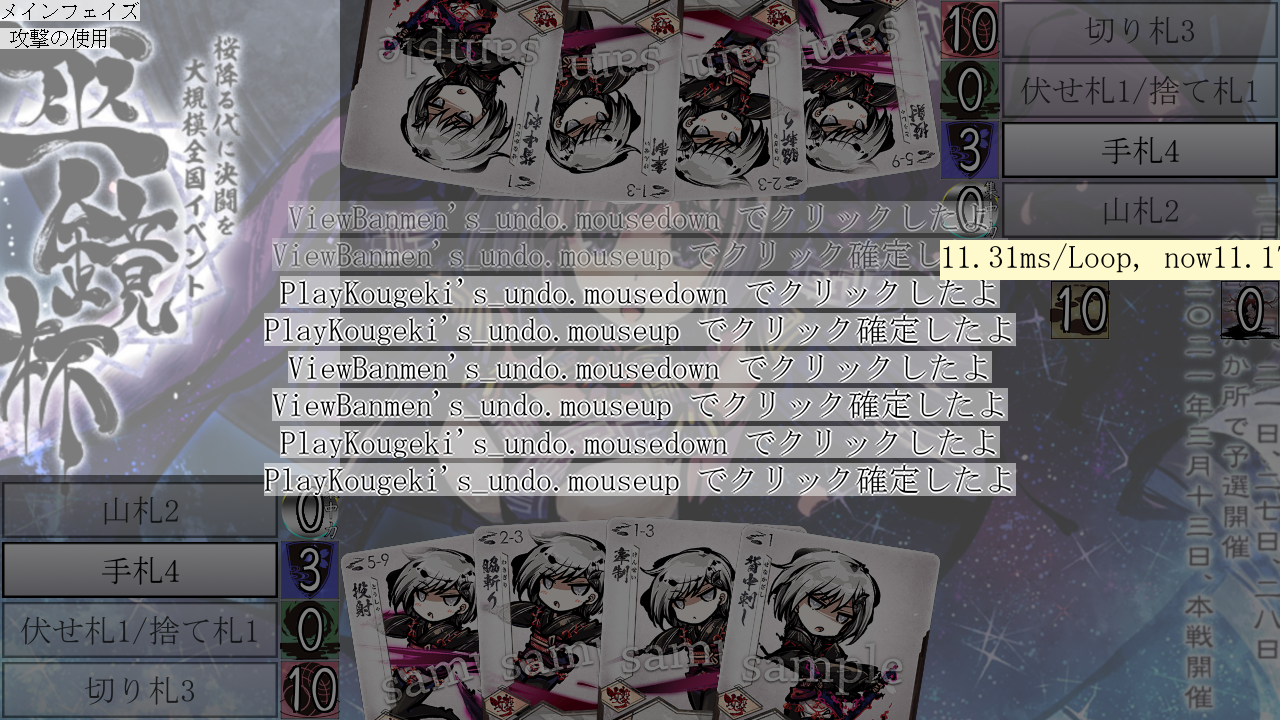
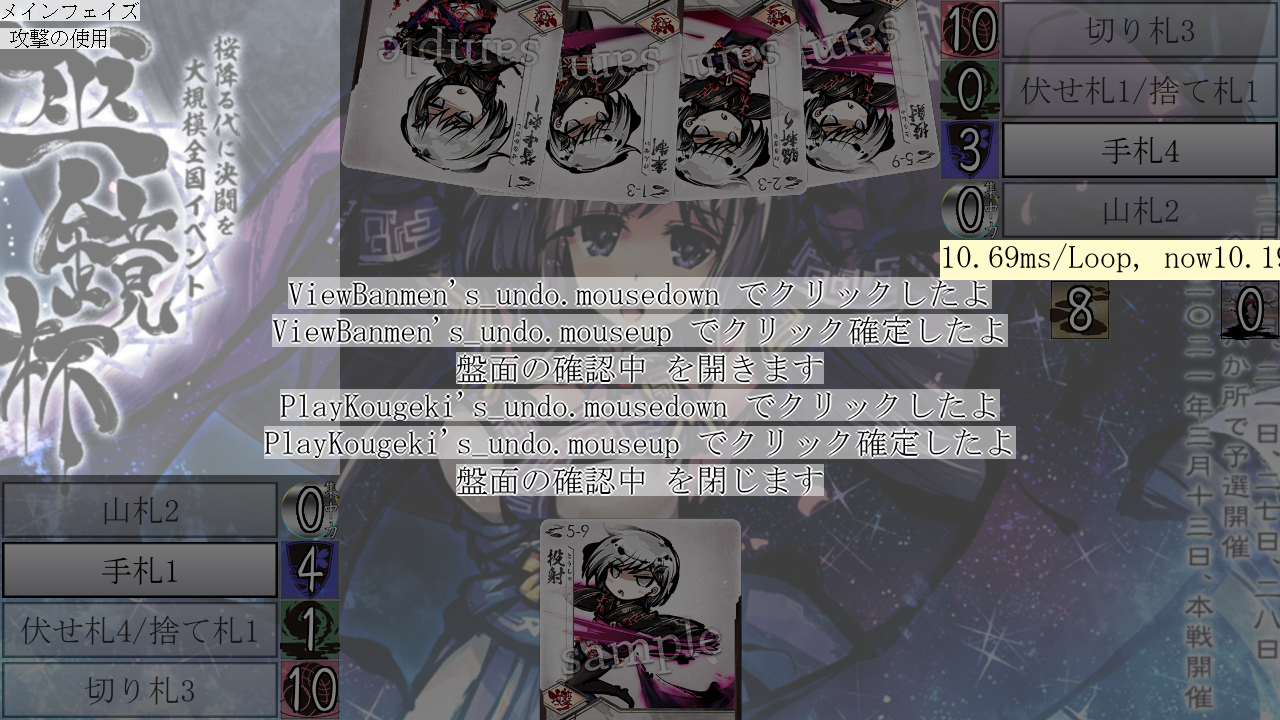
J194:ログ取りのOverLayer.open,同.close時のpopupをmoderator側に記載

Changed region(s): [[0.1875, 0.275, 0.875, 1.0], [0.9375, 0.3361, 0.9688, 0.3667], [0.0938, 0.8556, 0.125, 0.8861]]

diff --git a/mod/ol/others_basic_action.py b/mod/ol/others_basic_action.py
@@ -40,7 +40,6 @@ class OthersBasicAction():
         return self.taba.get_hover_huda() or _gray_youso
 
     def open(self) -> None:
-        popup_message.add(text="OthersBasicAction.open で開いたよ")
         bac = TabaFactory(inject_kwargs={
             "draw": self._draw, "hover": Huda.detail_draw, "mousedown": self._mousedown, "mouseup": self._mouseup
             }, huda_x=HAND_X, huda_y=HAND_Y, huda_angle=HAND_ANGLE)
@@ -49,7 +48,6 @@ class OthersBasicAction():
             self.taba[i].koudou = v
 
     def close(self) -> int:
-        popup_message.add(text="OthersBasicAction.close で閉じたよ")
         return 0
 
     def moderate(self, stat: int) -> None:

diff --git a/mod/moderator.py b/mod/moderator.py
@@ -16,12 +16,14 @@ class Moderator():
     def append(self, over_layer: OverLayer) -> None:
         over_layer.delivery = self.delivery
         self.stack.append(over_layer)
+        popup_message.add(text=f"{over_layer.name} を開きます")
         over_layer.open()
         over_layer.inject_func()
 
     def pop(self) -> None:
         over_layer = self.stack.pop()
         self.stack[-1].inject_func()
+        popup_message.add(text=f"{over_layer.name} を閉じます")
         self.stack[-1].moderate(stat=over_layer.close())
 
     def get_hover(self) -> Any | None:

diff --git a/mod/ol/main_phase.py b/mod/ol/main_phase.py
@@ -19,10 +19,9 @@ class MainPhase():
         return None
 
     def open(self) -> None:
-        popup_message.add(text="MainPhase.openで開いたよ")
+        ...
 
     def close(self) -> int:
-        popup_message.add(text="MainPhase.closeで閉じたよ")
         return 0
 
     def moderate(self, stat: int) -> None:
